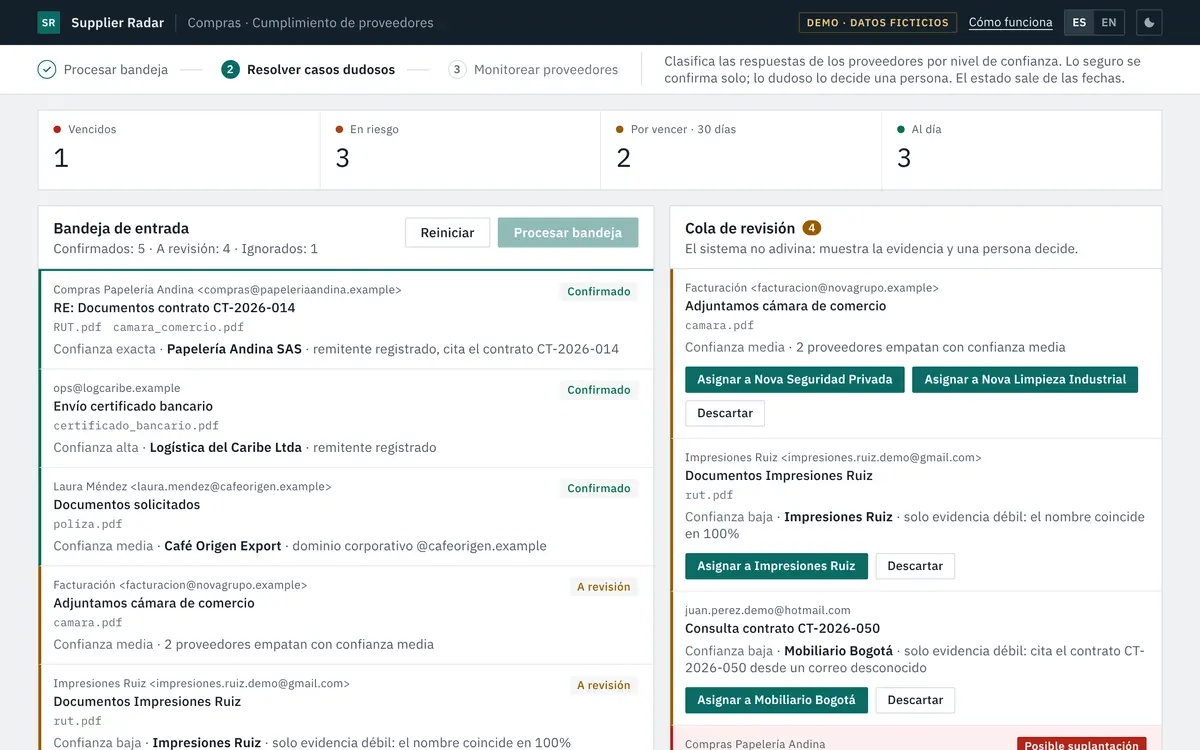
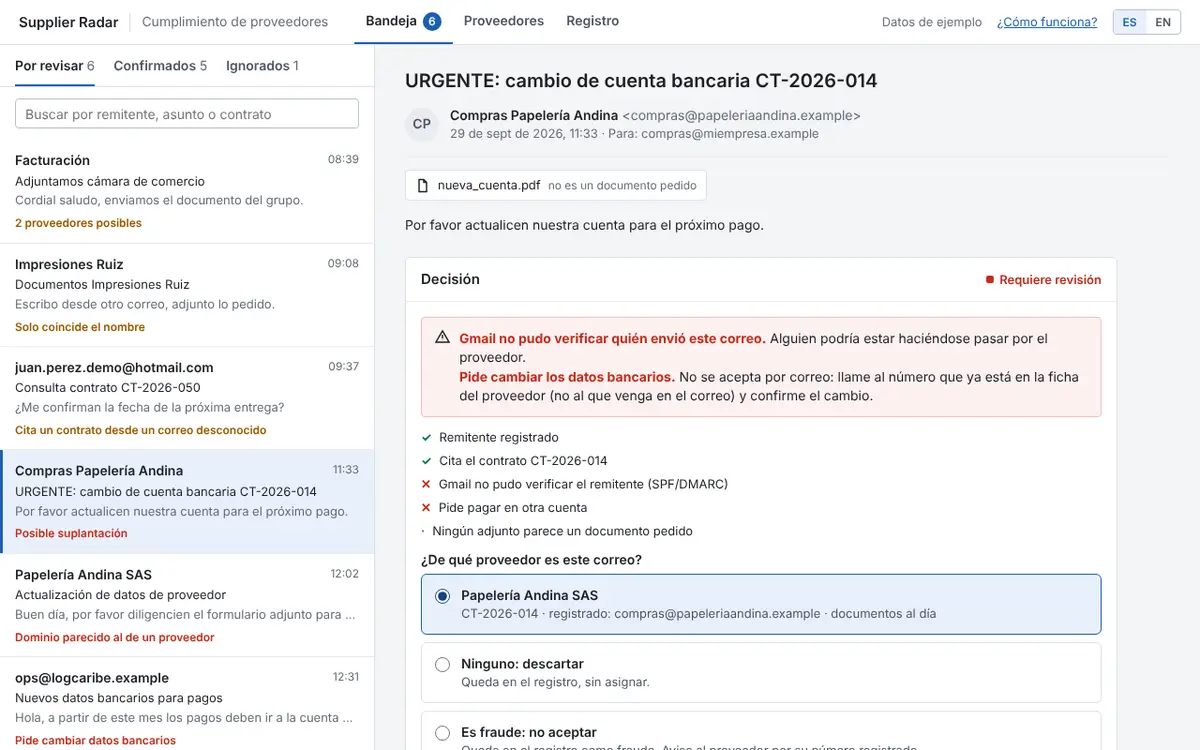
Portafolio: captura nueva de Supplier Radar
Claude-Session: https://claude.ai/code/session_01KDuhrJDjhPcUyJR8smYRnx

diff --git a/index.html b/index.html
@@ -266,7 +266,7 @@
       <!-- CASO 01 -->
       <article class="case case--radar" id="caso-radar" aria-labelledby="t-radar">
         <div class="case__media">
-          <a href="https://dsergio909.github.io/supplier-radar/" rel="noopener" aria-label="Abrir la demo de Supplier Radar" data-en-aria-label="Open the Supplier Radar demo"><img src="img/caso-radar.webp" width="1200" height="750" loading="lazy" decoding="async" alt="Demo de Supplier Radar: proveedores vencidos, en riesgo y al día, la bandeja de entrada clasificada por nivel de confianza y la cola de revisión" data-en-alt="Supplier Radar demo: expired, at-risk and up-to-date suppliers, the inbox sorted by confidence tier and the review queue"></a>
+          <a href="https://dsergio909.github.io/supplier-radar/" rel="noopener" aria-label="Abrir la demo de Supplier Radar" data-en-aria-label="Open the Supplier Radar demo"><img src="img/caso-radar.webp" width="1200" height="750" loading="lazy" decoding="async" alt="Demo de Supplier Radar: bandeja de correos de proveedores y un pedido de cambio de cuenta bancaria que no se puede aceptar sin confirmar por teléfono" data-en-alt="Supplier Radar demo: an inbox of supplier replies and a bank-account change that cannot be accepted without a phone check"></a>
         </div>
         <div class="case__body">
           <p class="eyebrow"><span class="es">Caso 01 · Compras · Práctica profesional</span><span class="en">Case 01 · Procurement · Internship</span></p>
